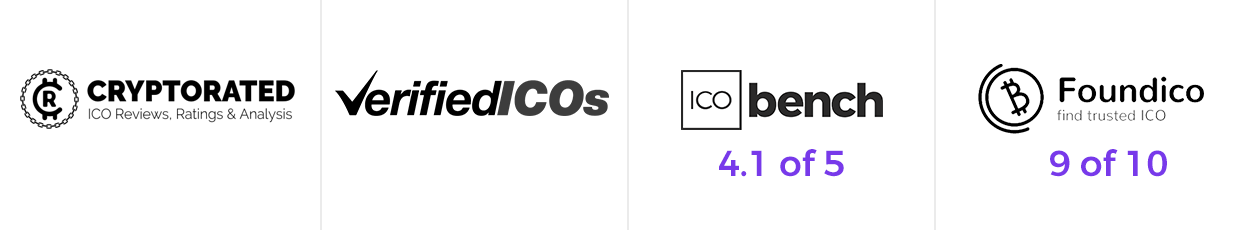
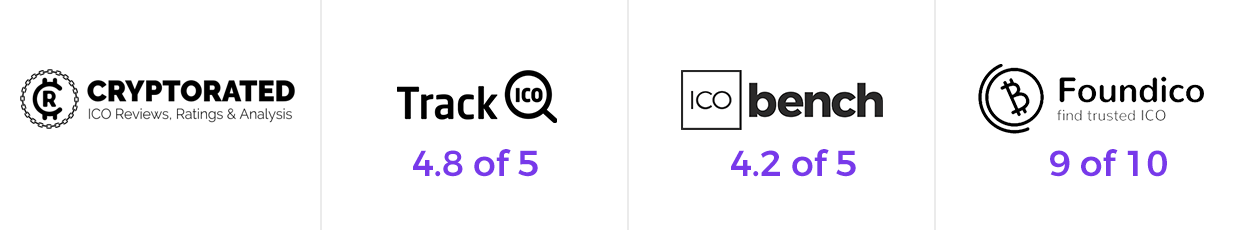
media/buynow btn update

Changed region(s): [[0.2476, 0.3043, 0.4952, 0.5174], [0.5571, 0.6391, 0.681, 0.7913], [0.3095, 0.6391, 0.4333, 0.7609]]

diff --git a/tokensale/index.html b/tokensale/index.html
@@ -1296,7 +1296,7 @@
 									You will get <span class="contrib_get">1400</span> CCOIN for <span class="contrib_eth">1</span> ETH
 								</div>
 								<div class="col-4">
-									<button class="btn btn-primary contribute-btn" data-target="#agreement" data-toggle="modal">BUY NOW</button><!-- <a class="btn btn-primary get-wallet-btn" href="https://bitsify.net/ico-list/soma-part-5-how-to-join-the-ico/" target="_blank">No wallet? Set it up here!</a> -->
+									<button class="btn btn-primary contribute-btn" data-target="#agreement" data-toggle="modal">Join Whitelist</button><!-- <a class="btn btn-primary get-wallet-btn" href="https://bitsify.net/ico-list/soma-part-5-how-to-join-the-ico/" target="_blank">No wallet? Set it up here!</a> -->
 								</div>
 							</div>
 						</div>
@@ -1491,6 +1491,12 @@
 					</div>
 					<div class="col-sm-3">
 						<a href="https://cryptorated.com/ico-request-pipeline/" target="blank_"><img class="img-responsive" src="../COINTOKEN-HOME_files/cryptorated.png"></a>
+					</div>
+					<div class="col-sm-3">
+						<a href="https://tokenmarket.net/blockchain/ethereum/assets/flatlay-r-with-creditcoin/" target="blank_"><img class="img-responsive" src="../COINTOKEN-HOME_files/tokenmarket.png"></a>
+					</div>
+					<div class="col-sm-3">
+						<a href="https://play.google.com/store/apps/details?id=com.lucky.icowatchlist&hl=en" target="blank_"><img class="img-responsive" src="../COINTOKEN-HOME_files/icowatchlist.png"></a>
 					</div>
 				</div>
 			</div>

diff --git a/index.html b/index.html
@@ -2055,6 +2055,12 @@
 				<div class="col-sm-3">
 					<a href="https://cryptorated.com/ico-request-pipeline/" target="blank_"><img class="img-responsive" src="./COINTOKEN-HOME_files/cryptorated.png"></a>
 				</div>
+				<div class="col-sm-3">
+					<a href="https://tokenmarket.net/blockchain/ethereum/assets/flatlay-r-with-creditcoin/" target="blank_"><img class="img-responsive" src="./COINTOKEN-HOME_files/tokenmarket.png"></a>
+				</div>
+				<div class="col-sm-3">
+					<a href="https://play.google.com/store/apps/details?id=com.lucky.icowatchlist&hl=en" target="blank_"><img class="img-responsive" src="./COINTOKEN-HOME_files/icowatchlist.png"></a>
+				</div>
 
 			</div>
 		</div>
